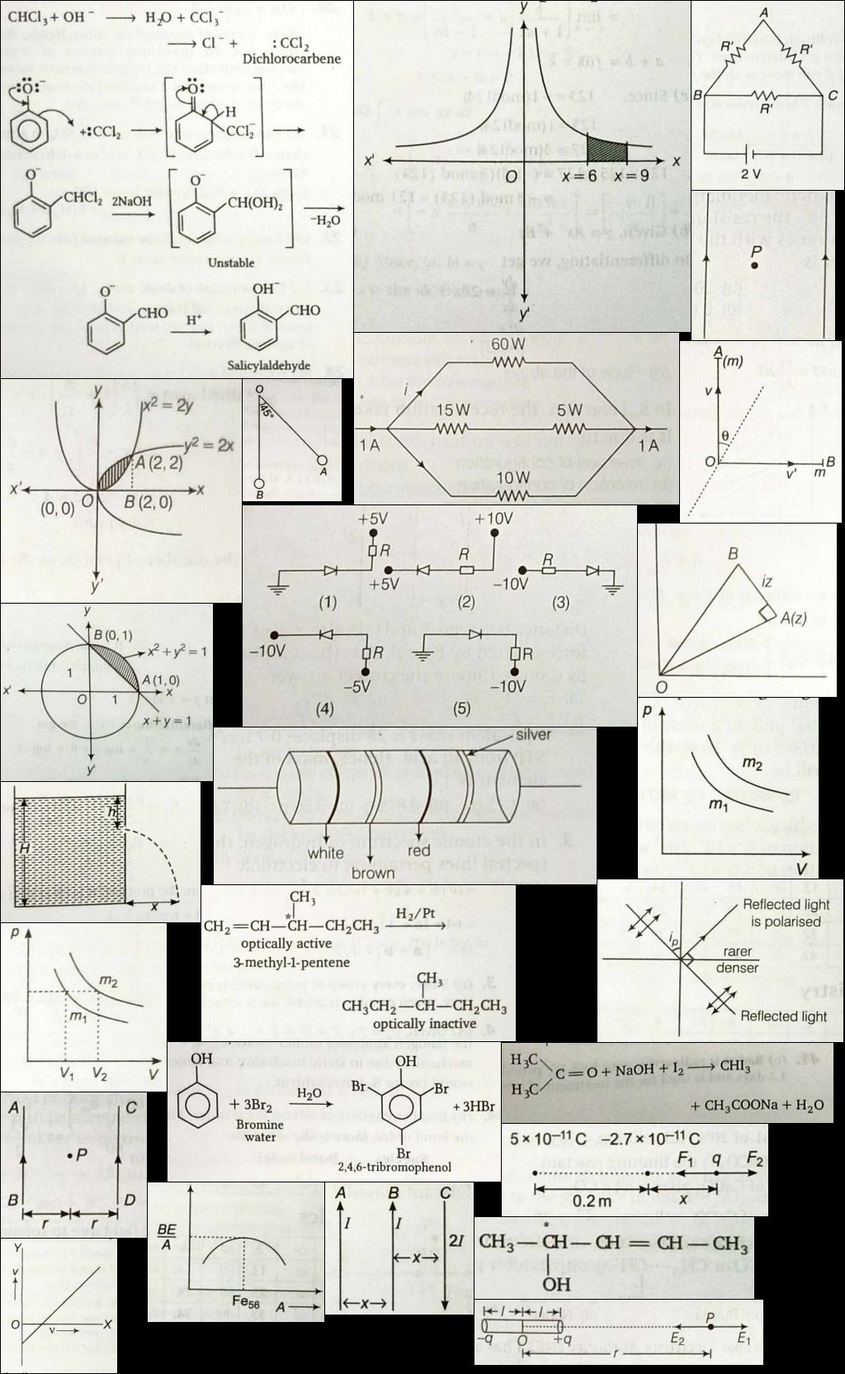
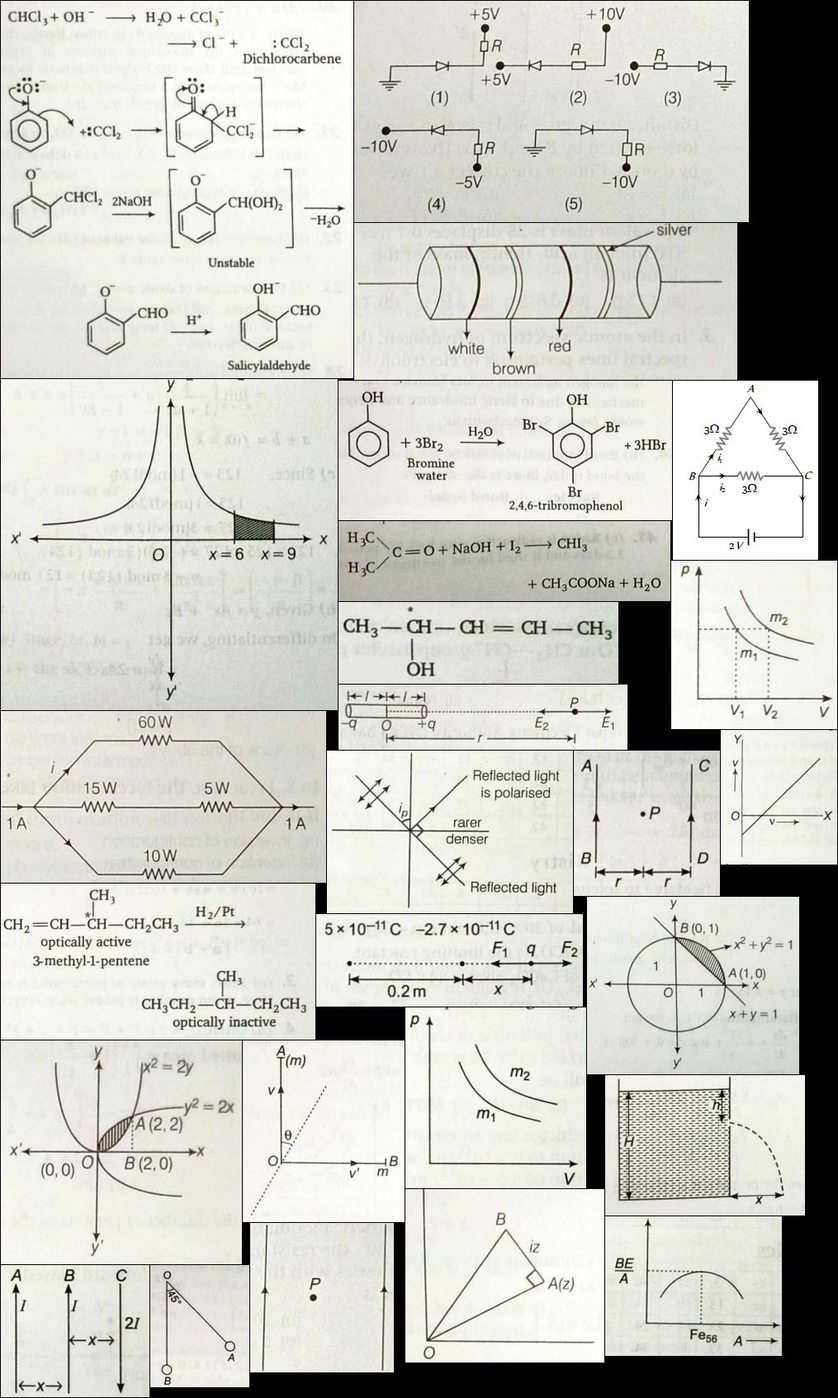
fixed.

diff --git a/img/engg/manipal/prev/2020.css b/img/engg/manipal/prev/2020.css
@@ -1,0 +1,170 @@
+/*
+-------------------------------------------------------------------
+Created with TexturePacker https://www.codeandweb.com/texturepacker
+-------------------------------------------------------------------
+Inline:     <i class="yourspritesname"></i>
+Responsive: <div class="yourspritesname"></div>
+*/
+
+
+.Ch_Manipal_2020_11_solu {max-width:388px; max-height:203px; }
+.Ch_Manipal_2020_11_solu::after {content: '\00a0';display: inline-block; width:388px; height:203px; background-position: 0.06060606060606061% 50.174216027874564%;background-size: 525.2577319587629% 524.1379310344828%;background-image: url(2020.jpg);padding: 0; }
+div.Ch_Manipal_2020_11_solu::after {max-width:388px; width:100%;height:0;padding: 0 0 52.31958762886598% 0;}
+.Ch_Manipal_2020_12_solu {max-width:168px; max-height:148px; }
+.Ch_Manipal_2020_12_solu::after {content: '\00a0';display: inline-block; width:168px; height:148px; background-position: 84.75935828877006% 71.06986899563319%;background-size: 1213.095238095238% 718.918918918919%;background-image: url(2020.jpg);padding: 0; }
+div.Ch_Manipal_2020_12_solu::after {max-width:168px; width:100%;height:0;padding: 0 0 88.0952380952381% 0;}
+.Ch_Manipal_2020_13_solu {max-width:391px; max-height:173px; }
+.Ch_Manipal_2020_13_solu::after {content: '\00a0';display: inline-block; width:391px; height:173px; background-position: 76.56344869459623% 0.1122334455667789%;background-size: 521.227621483376% 615.028901734104%;background-image: url(2020.jpg);padding: 0; }
+div.Ch_Manipal_2020_13_solu::after {max-width:391px; width:100%;height:0;padding: 0 0 44.24552429667519% 0;}
+.Ch_Manipal_2020_16_solu {max-width:377px; max-height:171px; }
+.Ch_Manipal_2020_16_solu::after {content: '\00a0';display: inline-block; width:377px; height:171px; background-position: 99.51836243226971% 0.11198208286674133%;background-size: 540.5835543766578% 622.2222222222222%;background-image: url(2020.jpg);padding: 0; }
+div.Ch_Manipal_2020_16_solu::after {max-width:377px; width:100%;height:0;padding: 0 0 45.358090185676396% 0;}
+.Ch_Manipal_2020_1_solu {max-width:364px; max-height:430px; }
+.Ch_Manipal_2020_1_solu::after {content: '\00a0';display: inline-block; width:364px; height:430px; background-position: 0.05973715651135006% 0.15772870662460567%;background-size: 559.8901098901099% 247.4418604651163%;background-image: url(2020.jpg);padding: 0; }
+div.Ch_Manipal_2020_1_solu::after {max-width:364px; width:100%;height:0;padding: 0 0 118.13186813186813% 0;}
+.Ch_Manipal_2020_30 {max-width:137px; max-height:106px; }
+.Ch_Manipal_2020_30::after {content: '\00a0';display: inline-block; width:137px; height:106px; background-position: 93.52972119936875% 80.37578288100208%;background-size: 1487.5912408759125% 1003.7735849056604%;background-image: url(2020.jpg);padding: 0; }
+div.Ch_Manipal_2020_30::after {max-width:137px; width:100%;height:0;padding: 0 0 77.37226277372262% 0;}
+.Ch_Manipal_2020_30_solu {max-width:170px; max-height:108px; }
+.Ch_Manipal_2020_30_solu::after {content: '\00a0';display: inline-block; width:170px; height:108px; background-position: 83.35117773019272% 91.52719665271967%;background-size: 1198.8235294117646% 985.1851851851852%;background-image: url(2020.jpg);padding: 0; }
+div.Ch_Manipal_2020_30_solu::after {max-width:170px; width:100%;height:0;padding: 0 0 63.529411764705884% 0;}
+.Ch_Manipal_2020_37_solu {max-width:291px; max-height:96px; }
+.Ch_Manipal_2020_37_solu::after {content: '\00a0';display: inline-block; width:291px; height:96px; background-position: 40.469376073268464% 78.20247933884298%;background-size: 700.3436426116839% 1108.3333333333333%;background-image: url(2020.jpg);padding: 0; }
+div.Ch_Manipal_2020_37_solu::after {max-width:291px; width:100%;height:0;padding: 0 0 32.98969072164948% 0;}
+.Ch_Manipal_2020_41_solu {max-width:366px; max-height:123px; }
+.Ch_Manipal_2020_41_solu::after {content: '\00a0';display: inline-block; width:366px; height:123px; background-position: 45.8732057416268% 32.19978746014878%;background-size: 556.8306010928961% 865.040650406504%;background-image: url(2020.jpg);padding: 0; }
+div.Ch_Manipal_2020_41_solu::after {max-width:366px; width:100%;height:0;padding: 0 0 33.60655737704918% 0;}
+.Ch_Manipal_2020_47_1 {max-width:140px; max-height:118px; }
+.Ch_Manipal_2020_47_1::after {content: '\00a0';display: inline-block; width:140px; height:118px; background-position: 92.41306638566913% 68.81606765327696%;background-size: 1455.7142857142858% 901.6949152542373%;background-image: url(2020.jpg);padding: 0; }
+div.Ch_Manipal_2020_47_1::after {max-width:140px; width:100%;height:0;padding: 0 0 84.28571428571429% 0;}
+.Ch_Manipal_2020_47_2 {max-width:128px; max-height:120px; }
+.Ch_Manipal_2020_47_2::after {content: '\00a0';display: inline-block; width:128px; height:120px; background-position: 63.19371727748691% 78.70762711864407%;background-size: 1592.1875% 886.6666666666666%;background-image: url(2020.jpg);padding: 0; }
+div.Ch_Manipal_2020_47_2::after {max-width:128px; width:100%;height:0;padding: 0 0 93.75% 0;}
+.Ch_Manipal_2020_47_3 {max-width:123px; max-height:145px; }
+.Ch_Manipal_2020_47_3::after {content: '\00a0';display: inline-block; width:123px; height:145px; background-position: 62.87206266318538% 94.0152339499456%;background-size: 1656.9105691056911% 733.7931034482758%;background-image: url(2020.jpg);padding: 0; }
+div.Ch_Manipal_2020_47_3::after {max-width:123px; width:100%;height:0;padding: 0 0 117.88617886178862% 0;}
+.Ch_Manipal_2020_47_4 {max-width:115px; max-height:112px; }
+.Ch_Manipal_2020_47_4::after {content: '\00a0';display: inline-block; width:115px; height:112px; background-position: 98.12792511700468% 92.1218487394958%;background-size: 1772.1739130434783% 950%;background-image: url(2020.jpg);padding: 0; }
+div.Ch_Manipal_2020_47_4::after {max-width:115px; width:100%;height:0;padding: 0 0 97.3913043478261% 0;}
+.Ch_Manipal_2020_47_solu {max-width:446px; max-height:175px; }
+.Ch_Manipal_2020_47_solu::after {content: '\00a0';display: inline-block; width:446px; height:175px; background-position: 51.130653266331656% 0.1124859392575928%;background-size: 456.9506726457399% 608%;background-image: url(2020.jpg);padding: 0; }
+div.Ch_Manipal_2020_47_solu::after {max-width:446px; width:100%;height:0;padding: 0 0 39.237668161434975% 0;}
+.Ch_Manipal_2020_48_1 {max-width:154px; max-height:76px; }
+.Ch_Manipal_2020_48_1::after {content: '\00a0';display: inline-block; width:154px; height:76px; background-position: 82.64331210191082% 99.59514170040485%;background-size: 1323.3766233766235% 1400%;background-image: url(2020.jpg);padding: 0; }
+div.Ch_Manipal_2020_48_1::after {max-width:154px; width:100%;height:0;padding: 0 0 49.35064935064935% 0;}
+.Ch_Manipal_2020_48_2 {max-width:153px; max-height:74px; }
+.Ch_Manipal_2020_48_2::after {content: '\00a0';display: inline-block; width:153px; height:74px; background-position: 91.6710875331565% 98.48484848484848%;background-size: 1332.0261437908496% 1437.837837837838%;background-image: url(2020.jpg);padding: 0; }
+div.Ch_Manipal_2020_48_2::after {max-width:153px; width:100%;height:0;padding: 0 0 48.36601307189542% 0;}
+.Ch_Manipal_2020_48_3 {max-width:121px; max-height:95px; }
+.Ch_Manipal_2020_48_3::after {content: '\00a0';display: inline-block; width:121px; height:95px; background-position: 99.94783515910277% 77.81217750257998%;background-size: 1684.297520661157% 1120%;background-image: url(2020.jpg);padding: 0; }
+div.Ch_Manipal_2020_48_3::after {max-width:121px; width:100%;height:0;padding: 0 0 78.51239669421487% 0;}
+.Ch_Manipal_2020_48_4 {max-width:158px; max-height:97px; }
+.Ch_Manipal_2020_48_4::after {content: '\00a0';display: inline-block; width:158px; height:97px; background-position: 91.91489361702128% 90.6928645294726%;background-size: 1289.873417721519% 1096.9072164948454%;background-image: url(2020.jpg);padding: 0; }
+div.Ch_Manipal_2020_48_4::after {max-width:158px; width:100%;height:0;padding: 0 0 61.392405063291136% 0;}
+.Ch_Manipal_2020_48_solu {max-width:339px; max-height:159px; }
+.Ch_Manipal_2020_48_solu::after {content: '\00a0';display: inline-block; width:339px; height:159px; background-position: 43.790464979399644% 47.18232044198895%;background-size: 601.1799410029498% 669.1823899371069%;background-image: url(2020.jpg);padding: 0; }
+div.Ch_Manipal_2020_48_solu::after {max-width:339px; width:100%;height:0;padding: 0 0 46.902654867256636% 0;}
+.Ch_Manipal_2020_49_solu {max-width:227px; max-height:163px; }
+.Ch_Manipal_2020_49_solu::after {content: '\00a0';display: inline-block; width:227px; height:163px; background-position: 75.20706791827719% 50.49944506104328%;background-size: 897.7973568281939% 652.760736196319%;background-image: url(2020.jpg);padding: 0; }
+div.Ch_Manipal_2020_49_solu::after {max-width:227px; width:100%;height:0;padding: 0 0 71.80616740088105% 0;}
+.Ch_Manipal_2020_50_solu {max-width:400px; max-height:126px; }
+.Ch_Manipal_2020_50_solu::after {content: '\00a0';display: inline-block; width:400px; height:126px; background-position: 22.344322344322343% 28.891257995735607%;background-size: 509.5% 844.4444444444445%;background-image: url(2020.jpg);padding: 0; }
+div.Ch_Manipal_2020_50_solu::after {max-width:400px; width:100%;height:0;padding: 0 0 31.5% 0;}
+.Ch_Manipal_2020_6_1_solu {max-width:369px; max-height:125px; }
+.Ch_Manipal_2020_6_1_solu::after {content: '\00a0';display: inline-block; width:369px; height:125px; background-position: 48.7717195925704% 18.849840255591054%;background-size: 552.3035230352303% 851.2%;background-image: url(2020.jpg);padding: 0; }
+div.Ch_Manipal_2020_6_1_solu::after {max-width:369px; width:100%;height:0;padding: 0 0 33.87533875338753% 0;}
+.Ch_Manipal_2020_6_2_solu {max-width:447px; max-height:269px; }
+.Ch_Manipal_2020_6_2_solu::after {content: '\00a0';display: inline-block; width:447px; height:269px; background-position: 23.004399748585794% 0.12578616352201258%;background-size: 455.92841163310965% 395.53903345724905%;background-image: url(2020.jpg);padding: 0; }
+div.Ch_Manipal_2020_6_2_solu::after {max-width:447px; width:100%;height:0;padding: 0 0 60.17897091722595% 0;}
+.Ch_Manipal_2020_8_solu {max-width:123px; max-height:92px; }
+.Ch_Manipal_2020_8_solu::after {content: '\00a0';display: inline-block; width:123px; height:92px; background-position: 94.62140992167102% 56.37860082304527%;background-size: 1656.9105691056911% 1156.5217391304348%;background-image: url(2020.jpg);padding: 0; }
+div.Ch_Manipal_2020_8_solu::after {max-width:123px; width:100%;height:0;padding: 0 0 74.79674796747967% 0;}
+.GP_2020_27_solu {max-width:281px; max-height:83px; }
+.GP_2020_27_solu::after {content: '\00a0';display: inline-block; width:281px; height:83px; background-position: 71.770062606716% 17.83893985728848%;background-size: 725.2669039145908% 1281.9277108433735%;background-image: url(2020.jpg);padding: 0; }
+div.GP_2020_27_solu::after {max-width:281px; width:100%;height:0;padding: 0 0 29.537366548042705% 0;}
+.GP_2020_28_solu {max-width:317px; max-height:97px; }
+.GP_2020_28_solu::after {content: '\00a0';display: inline-block; width:317px; height:97px; background-position: 43.230679837303896% 60.70320579110651%;background-size: 642.9022082018928% 1096.9072164948454%;background-image: url(2020.jpg);padding: 0; }
+div.GP_2020_28_solu::after {max-width:317px; width:100%;height:0;padding: 0 0 30.599369085173503% 0;}
+.GP_2020_29 {max-width:201px; max-height:74px; }
+.GP_2020_29::after {content: '\00a0';display: inline-block; width:201px; height:74px; background-position: 85.79205225911812% 80.8080808080808%;background-size: 1013.9303482587064% 1437.837837837838%;background-image: url(2020.jpg);padding: 0; }
+div.GP_2020_29::after {max-width:201px; width:100%;height:0;padding: 0 0 36.81592039800995% 0;}
+.GP_2020_30 {max-width:214px; max-height:99px; }
+.GP_2020_30::after {content: '\00a0';display: inline-block; width:214px; height:99px; background-position: 87.17105263157895% 57.09844559585492%;background-size: 952.3364485981308% 1074.7474747474748%;background-image: url(2020.jpg);padding: 0; }
+div.GP_2020_30::after {max-width:214px; width:100%;height:0;padding: 0 0 46.26168224299065% 0;}
+.Manipal_2020_35_solu {max-width:312px; max-height:71px; }
+.Manipal_2020_35_solu::after {content: '\00a0';display: inline-block; width:312px; height:71px; background-position: 42.294322132097335% 68.9828801611279%;background-size: 653.2051282051282% 1498.5915492957747%;background-image: url(2020.jpg);padding: 0; }
+div.Manipal_2020_35_solu::after {max-width:312px; width:100%;height:0;padding: 0 0 22.756410256410255% 0;}
+.Manipal_2020_39_solu {max-width:239px; max-height:86px; }
+.Manipal_2020_39_solu::after {content: '\00a0';display: inline-block; width:239px; height:86px; background-position: 74.26347971095053% 79.65235173824131%;background-size: 852.7196652719665% 1237.2093023255813%;background-image: url(2020.jpg);padding: 0; }
+div.Manipal_2020_39_solu::after {max-width:239px; width:100%;height:0;padding: 0 0 35.98326359832636% 0;}
+.Manipal_2020_40_solu {max-width:221px; max-height:125px; }
+.Manipal_2020_40_solu::after {content: '\00a0';display: inline-block; width:221px; height:125px; background-position: 87.50687947165657% 45.260915867944625%;background-size: 922.1719457013575% 851.2%;background-image: url(2020.jpg);padding: 0; }
+div.Manipal_2020_40_solu::after {max-width:221px; width:100%;height:0;padding: 0 0 56.56108597285068% 0;}
+.Manipal_2020_48 {max-width:226px; max-height:121px; }
+.Manipal_2020_48::after {content: '\00a0';display: inline-block; width:226px; height:121px; background-position: 92.439293598234% 27.253446447507955%;background-size: 901.7699115044247% 879.3388429752066%;background-image: url(2020.jpg);padding: 0; }
+div.Manipal_2020_48::after {max-width:226px; width:100%;height:0;padding: 0 0 53.53982300884956% 0;}
+.Manipal_2020_48_solu {max-width:273px; max-height:134px; }
+.Manipal_2020_48_solu::after {content: '\00a0';display: inline-block; width:273px; height:134px; background-position: 60.169971671388105% 65.3763440860215%;background-size: 746.5201465201466% 794.0298507462686%;background-image: url(2020.jpg);padding: 0; }
+div.Manipal_2020_48_solu::after {max-width:273px; width:100%;height:0;padding: 0 0 49.08424908424909% 0;}
+.Manipal_2020_50_solu {max-width:210px; max-height:156px; }
+.Manipal_2020_50_solu::after {content: '\00a0';display: inline-block; width:210px; height:156px; background-position: 80.0875273522976% 28.524229074889867%;background-size: 970.4761904761905% 682.0512820512821%;background-image: url(2020.jpg);padding: 0; }
+div.Manipal_2020_50_solu::after {max-width:210px; width:100%;height:0;padding: 0 0 74.28571428571429% 0;}
+.Manipal_2020_6 {max-width:228px; max-height:157px; }
+.Manipal_2020_6::after {content: '\00a0';display: inline-block; width:228px; height:157px; background-position: 73.37016574585635% 95.47960308710033%;background-size: 893.859649122807% 677.7070063694267%;background-image: url(2020.jpg);padding: 0; }
+div.Manipal_2020_6::after {max-width:228px; width:100%;height:0;padding: 0 0 68.85964912280701% 0;}
+.Manipal_2020_6_1 {max-width:128px; max-height:112px; }
+.Manipal_2020_6_1::after {content: '\00a0';display: inline-block; width:128px; height:112px; background-position: 99.21465968586388% 67.33193277310924%;background-size: 1592.1875% 950%;background-image: url(2020.jpg);padding: 0; }
+div.Manipal_2020_6_1::after {max-width:128px; width:100%;height:0;padding: 0 0 87.5% 0;}
+.Manipal_2020_6_2 {max-width:163px; max-height:110px; }
+.Manipal_2020_6_2::after {content: '\00a0';display: inline-block; width:163px; height:110px; background-position: 55.626666666666665% 77.88259958071279%;background-size: 1250.3067484662577% 967.2727272727273%;background-image: url(2020.jpg);padding: 0; }
+div.Manipal_2020_6_2::after {max-width:163px; width:100%;height:0;padding: 0 0 67.48466257668711% 0;}
+.Manipal_2020_6_21 {max-width:248px; max-height:159px; }
+.Manipal_2020_6_21::after {content: '\00a0';display: inline-block; width:248px; height:159px; background-position: 74.63687150837988% 68.39779005524862%;background-size: 821.7741935483871% 669.1823899371069%;background-image: url(2020.jpg);padding: 0; }
+div.Manipal_2020_6_21::after {max-width:248px; width:100%;height:0;padding: 0 0 64.11290322580645% 0;}
+.Manipal_2020_6_21_solu {max-width:272px; max-height:193px; }
+.Manipal_2020_6_21_solu::after {content: '\00a0';display: inline-block; width:272px; height:193px; background-position: 52.71800679501699% 98.04822043628013%;background-size: 749.2647058823529% 551.2953367875648%;background-image: url(2020.jpg);padding: 0; }
+div.Manipal_2020_6_21_solu::after {max-width:272px; width:100%;height:0;padding: 0 0 70.95588235294117% 0;}
+.Manipal_2020_6_3 {max-width:127px; max-height:115px; }
+.Manipal_2020_6_3::after {content: '\00a0';display: inline-block; width:127px; height:115px; background-position: 99.52904238618524% 27.08113804004215%;background-size: 1604.724409448819% 925.2173913043479%;background-image: url(2020.jpg);padding: 0; }
+div.Manipal_2020_6_3::after {max-width:127px; width:100%;height:0;padding: 0 0 90.55118110236221% 0;}
+.Manipal_2020_6_33 {max-width:325px; max-height:104px; }
+.Manipal_2020_6_33::after {content: '\00a0';display: inline-block; width:325px; height:104px; background-position: 22.241681260945708% 75.83333333333333%;background-size: 627.0769230769231% 1023.0769230769231%;background-image: url(2020.jpg);padding: 0; }
+div.Manipal_2020_6_33::after {max-width:325px; width:100%;height:0;padding: 0 0 32% 0;}
+.Manipal_2020_6_33_1_solu {max-width:280px; max-height:83px; }
+.Manipal_2020_6_33_1_solu::after {content: '\00a0';display: inline-block; width:280px; height:83px; background-position: 94.02730375426621% 17.63506625891947%;background-size: 727.8571428571429% 1281.9277108433735%;background-image: url(2020.jpg);padding: 0; }
+div.Manipal_2020_6_33_1_solu::after {max-width:280px; width:100%;height:0;padding: 0 0 29.642857142857142% 0;}
+.Manipal_2020_6_33_2_solu {max-width:279px; max-height:195px; }
+.Manipal_2020_6_33_2_solu::after {content: '\00a0';display: inline-block; width:279px; height:195px; background-position: 67.31097214326321% 29.804372842347526%;background-size: 730.4659498207885% 545.6410256410256%;background-image: url(2020.jpg);padding: 0; }
+div.Manipal_2020_6_33_2_solu::after {max-width:279px; width:100%;height:0;padding: 0 0 69.89247311827957% 0;}
+.Manipal_2020_6_33_3_solu {max-width:288px; max-height:191px; }
+.Manipal_2020_6_33_3_solu::after {content: '\00a0';display: inline-block; width:288px; height:191px; background-position: 36.68571428571428% 97.82359679266895%;background-size: 707.6388888888889% 557.0680628272252%;background-image: url(2020.jpg);padding: 0; }
+div.Manipal_2020_6_33_3_solu::after {max-width:288px; width:100%;height:0;padding: 0 0 66.31944444444444% 0;}
+.Manipal_2020_6_4 {max-width:148px; max-height:122px; }
+.Manipal_2020_6_4::after {content: '\00a0';display: inline-block; width:148px; height:122px; background-position: 95.87301587301587% 45.11677282377919%;background-size: 1377.027027027027% 872.1311475409836%;background-image: url(2020.jpg);padding: 0; }
+div.Manipal_2020_6_4::after {max-width:148px; width:100%;height:0;padding: 0 0 82.43243243243244% 0;}
+.Math_2020_25_solu {max-width:307px; max-height:184px; }
+.Math_2020_25_solu::after {content: '\00a0';display: inline-block; width:307px; height:184px; background-position: 19.295205083766607% 94.6590909090909%;background-size: 663.8436482084691% 578.2608695652174%;background-image: url(2020.jpg);padding: 0; }
+div.Math_2020_25_solu::after {max-width:307px; width:100%;height:0;padding: 0 0 59.93485342019544% 0;}
+.Math_2020_3_solu {max-width:339px; max-height:133px; }
+.Math_2020_3_solu::after {content: '\00a0';display: inline-block; width:339px; height:133px; background-position: 22.954679223072397% 63.80236305048335%;background-size: 601.1799410029498% 800%;background-image: url(2020.jpg);padding: 0; }
+div.Math_2020_3_solu::after {max-width:339px; width:100%;height:0;padding: 0 0 39.233038348082594% 0;}
+.Math_2020_4_solu {max-width:353px; max-height:195px; }
+.Math_2020_4_solu::after {content: '\00a0';display: inline-block; width:353px; height:195px; background-position: 23.14540059347181% 45.79976985040276%;background-size: 577.3371104815864% 545.6410256410256%;background-image: url(2020.jpg);padding: 0; }
+div.Math_2020_4_solu::after {max-width:353px; width:100%;height:0;padding: 0 0 55.240793201133144% 0;}
+.Math_2020_55_solu {max-width:332px; max-height:223px; }
+.Math_2020_55_solu::after {content: '\00a0';display: inline-block; width:332px; height:223px; background-position: 0.05861664712778429% 98.33531510107015%;background-size: 613.855421686747% 477.13004484304935%;background-image: url(2020.jpg);padding: 0; }
+div.Math_2020_55_solu::after {max-width:332px; width:100%;height:0;padding: 0 0 67.16867469879519% 0;}
+.Math_2020_57_solu {max-width:379px; max-height:190px; }
+.Math_2020_57_solu::after {content: '\00a0';display: inline-block; width:379px; height:190px; background-position: 0.06027727546714889% 72.76887871853548%;background-size: 537.730870712401% 560%;background-image: url(2020.jpg);padding: 0; }
+div.Math_2020_57_solu::after {max-width:379px; width:100%;height:0;padding: 0 0 50.13192612137203% 0;}
+.Math_2020_60_solu {max-width:277px; max-height:152px; }
+.Math_2020_60_solu::after {content: '\00a0';display: inline-block; width:277px; height:152px; background-position: 61.555934128336176% 49.89035087719298%;background-size: 735.7400722021661% 700%;background-image: url(2020.jpg);padding: 0; }
+div.Math_2020_60_solu::after {max-width:277px; width:100%;height:0;padding: 0 0 54.87364620938628% 0;}
+.Math_2020_66_1_solu {max-width:258px; max-height:45px; }
+.Math_2020_66_1_solu::after {content: '\00a0';display: inline-block; width:258px; height:45px; background-position: 94.10112359550561% 37.19332679097154%;background-size: 789.922480620155% 2364.4444444444443%;background-image: url(2020.jpg);padding: 0; }
+div.Math_2020_66_1_solu::after {max-width:258px; width:100%;height:0;padding: 0 0 17.441860465116278% 0;}
+.Math_2020_66_2_solu {max-width:263px; max-height:45px; }
+.Math_2020_66_2_solu::after {content: '\00a0';display: inline-block; width:263px; height:45px; background-position: 18.816901408450704% 99.9018645731109%;background-size: 774.9049429657795% 2364.4444444444443%;background-image: url(2020.jpg);padding: 0; }
+div.Math_2020_66_2_solu::after {max-width:263px; width:100%;height:0;padding: 0 0 17.11026615969582% 0;}
+
+/* $TexturePacker:SmartUpdate:5a353f446b068bdf27719a21f37d508b:a7c0c70dfa68616ca856cf6940f81ce4:88b3c23202266ed6b4fc6bd5ac16f8f9$ */

diff --git a/img/engg/manipal/prev/2018.css b/img/engg/manipal/prev/2018.css
@@ -8,82 +8,82 @@ Responsive: <div class="yourspritesname"></div>
 
 
 .Manipal_2018_Che_16 {max-width:402px; max-height:97px; }
-.Manipal_2018_Che_16::after {content: '\00a0';display: inline-block; width:402px; height:97px; background-position: 97.7491961414791% 80.59987236758137%;background-size: 254.726368159204% 1715.4639175257732%;background-image: url(2018.jpg);padding: 0; }
+.Manipal_2018_Che_16::after {content: '\00a0';display: inline-block; width:402px; height:97px; background-position: 66.88417618270799% 39.53634085213032%;background-size: 252.48756218905473% 1745.360824742268%;background-image: url(2018.jpg);padding: 0; }
 div.Manipal_2018_Che_16::after {max-width:402px; width:100%;height:0;padding: 0 0 24.129353233830845% 0;}
 .Manipal_2018_Che_29 {max-width:427px; max-height:457px; }
-.Manipal_2018_Che_29::after {content: '\00a0';display: inline-block; width:427px; height:457px; background-position: 0.16750418760469013% 0.08285004142502071%;background-size: 239.81264637002343% 364.1137855579869%;background-image: url(2018.jpg);padding: 0; }
+.Manipal_2018_Che_29::after {content: '\00a0';display: inline-block; width:427px; height:457px; background-position: 0.17006802721088435% 0.08090614886731391%;background-size: 237.70491803278688% 370.4595185995624%;background-image: url(2018.jpg);padding: 0; }
 div.Manipal_2018_Che_29::after {max-width:427px; width:100%;height:0;padding: 0 0 107.02576112412179% 0;}
 .Manipal_2018_Che_39 {max-width:339px; max-height:99px; }
-.Manipal_2018_Che_39::after {content: '\00a0';display: inline-block; width:339px; height:99px; background-position: 83.94160583941606% 94.185303514377%;background-size: 302.06489675516224% 1680.8080808080808%;background-image: url(2018.jpg);padding: 0; }
+.Manipal_2018_Che_39::after {content: '\00a0';display: inline-block; width:339px; height:99px; background-position: 60.650887573964496% 45.73400250941029%;background-size: 299.4100294985251% 1710.1010101010102%;background-image: url(2018.jpg);padding: 0; }
 div.Manipal_2018_Che_39::after {max-width:339px; width:100%;height:0;padding: 0 0 29.20353982300885% 0;}
 .Manipal_2018_Che_49 {max-width:381px; max-height:189px; }
-.Manipal_2018_Che_49::after {content: '\00a0';display: inline-block; width:381px; height:189px; background-position: 37.947122861586315% 72.67796610169492%;background-size: 268.76640419947506% 880.4232804232804%;background-image: url(2018.jpg);padding: 0; }
+.Manipal_2018_Che_49::after {content: '\00a0';display: inline-block; width:381px; height:189px; background-position: 0.15772870662460567% 71.1436170212766%;background-size: 266.40419947506564% 895.7671957671957%;background-image: url(2018.jpg);padding: 0; }
 div.Manipal_2018_Che_49::after {max-width:381px; width:100%;height:0;padding: 0 0 49.60629921259842% 0;}
 .Manipal_2018_Che_8 {max-width:404px; max-height:169px; }
-.Manipal_2018_Che_8::after {content: '\00a0';display: inline-block; width:404px; height:169px; background-position: 32.74193548387097% 84.41471571906355%;background-size: 253.46534653465346% 984.6153846153846%;background-image: url(2018.jpg);padding: 0; }
+.Manipal_2018_Che_8::after {content: '\00a0';display: inline-block; width:404px; height:169px; background-position: 67.10310965630114% 30.249343832020998%;background-size: 251.23762376237624% 1001.7751479289941%;background-image: url(2018.jpg);padding: 0; }
 div.Manipal_2018_Che_8::after {max-width:404px; width:100%;height:0;padding: 0 0 41.83168316831683% 0;}
 .Manipal_2018_Maths_23 {max-width:408px; max-height:401px; }
-.Manipal_2018_Maths_23::after {content: '\00a0';display: inline-block; width:408px; height:401px; background-position: 69.64285714285714% 0.0791765637371338%;background-size: 250.98039215686273% 414.9625935162095%;background-image: url(2018.jpg);padding: 0; }
+.Manipal_2018_Maths_23::after {content: '\00a0';display: inline-block; width:408px; height:401px; background-position: 0.16474464579901152% 35.526315789473685%;background-size: 248.77450980392157% 422.19451371571074%;background-image: url(2018.jpg);padding: 0; }
 div.Manipal_2018_Maths_23::after {max-width:408px; width:100%;height:0;padding: 0 0 98.2843137254902% 0;}
 .Manipal_2018_Maths_25 {max-width:241px; max-height:210px; }
-.Manipal_2018_Maths_25::after {content: '\00a0';display: inline-block; width:241px; height:210px; background-position: 98.7228607918263% 43.60385144429161%;background-size: 424.896265560166% 792.3809523809524%;background-image: url(2018.jpg);padding: 0; }
+.Manipal_2018_Maths_25::after {content: '\00a0';display: inline-block; width:241px; height:210px; background-position: 63.43669250645995% 97.10047201618342%;background-size: 421.1618257261411% 806.1904761904761%;background-image: url(2018.jpg);padding: 0; }
 div.Manipal_2018_Maths_25::after {max-width:241px; width:100%;height:0;padding: 0 0 87.13692946058092% 0;}
 .Manipal_2018_Maths_46 {max-width:292px; max-height:271px; }
-.Manipal_2018_Maths_46::after {content: '\00a0';display: inline-block; width:292px; height:271px; background-position: 0.1366120218579235% 32.95046661880833%;background-size: 350.6849315068493% 614.0221402214022%;background-image: url(2018.jpg);padding: 0; }
+.Manipal_2018_Maths_46::after {content: '\00a0';display: inline-block; width:292px; height:271px; background-position: 0.13831258644536654% 88.60759493670886%;background-size: 347.6027397260274% 624.7232472324723%;background-image: url(2018.jpg);padding: 0; }
 div.Manipal_2018_Maths_46::after {max-width:292px; width:100%;height:0;padding: 0 0 92.8082191780822% 0;}
 .Manipal_2018_Maths_65 {max-width:257px; max-height:215px; }
-.Manipal_2018_Maths_65::after {content: '\00a0';display: inline-block; width:257px; height:215px; background-position: 0.1303780964797914% 50.448585231193924%;background-size: 398.44357976653697% 773.953488372093%;background-image: url(2018.jpg);padding: 0; }
+.Manipal_2018_Maths_65::after {content: '\00a0';display: inline-block; width:257px; height:215px; background-position: 93.7994722955145% 73.47767253044655%;background-size: 394.94163424124514% 787.4418604651163%;background-image: url(2018.jpg);padding: 0; }
 div.Manipal_2018_Maths_65::after {max-width:257px; width:100%;height:0;padding: 0 0 83.65758754863813% 0;}
 .Manipal_2018_Phy_1 {max-width:350px; max-height:79px; }
-.Manipal_2018_Phy_1::after {content: '\00a0';display: inline-block; width:350px; height:79px; background-position: 85.31157270029674% 99.30599369085174%;background-size: 292.57142857142856% 2106.3291139240505%;background-image: url(2018.jpg);padding: 0; }
+.Manipal_2018_Phy_1::after {content: '\00a0';display: inline-block; width:350px; height:79px; background-position: 61.65413533834587% 51.36307311028501%;background-size: 290% 2143.0379746835442%;background-image: url(2018.jpg);padding: 0; }
 div.Manipal_2018_Phy_1::after {max-width:350px; width:100%;height:0;padding: 0 0 22.571428571428573% 0;}
 .Manipal_2018_Phy_11 {max-width:242px; max-height:170px; }
-.Manipal_2018_Phy_11::after {content: '\00a0';display: inline-block; width:242px; height:170px; background-position: 0.1278772378516624% 63.38688085676038%;background-size: 423.1404958677686% 978.8235294117648%;background-image: url(2018.jpg);padding: 0; }
+.Manipal_2018_Phy_11::after {content: '\00a0';display: inline-block; width:242px; height:170px; background-position: 94.82535575679172% 85.48916611950098%;background-size: 419.42148760330576% 995.8823529411765%;background-image: url(2018.jpg);padding: 0; }
 div.Manipal_2018_Phy_11::after {max-width:242px; width:100%;height:0;padding: 0 0 70.24793388429752% 0;}
-.Manipal_2018_Phy_14 {max-width:185px; max-height:229px; }
-.Manipal_2018_Phy_14::after {content: '\00a0';display: inline-block; width:185px; height:229px; background-position: 99.880810488677% 0.06968641114982578%;background-size: 553.5135135135135% 726.6375545851529%;background-image: url(2018.jpg);padding: 0; }
-div.Manipal_2018_Phy_14::after {max-width:185px; width:100%;height:0;padding: 0 0 123.78378378378379% 0;}
+.Manipal_2018_Phy_14 {max-width:176px; max-height:217px; }
+.Manipal_2018_Phy_14::after {content: '\00a0';display: inline-block; width:176px; height:217px; background-position: 97.13945172824792% 31.233062330623305%;background-size: 576.7045454545455% 780.184331797235%;background-image: url(2018.jpg);padding: 0; }
+div.Manipal_2018_Phy_14::after {max-width:176px; width:100%;height:0;padding: 0 0 123.29545454545455% 0;}
 .Manipal_2018_Phy_18 {max-width:141px; max-height:163px; }
-.Manipal_2018_Phy_18::after {content: '\00a0';display: inline-block; width:141px; height:163px; background-position: 0.11325028312570781% 99.93337774816789%;background-size: 726.2411347517731% 1020.8588957055215%;background-image: url(2018.jpg);padding: 0; }
+.Manipal_2018_Phy_18::after {content: '\00a0';display: inline-block; width:141px; height:163px; background-position: 99.88558352402745% 57.77777777777778%;background-size: 719.8581560283687% 1038.6503067484662%;background-image: url(2018.jpg);padding: 0; }
 div.Manipal_2018_Phy_18::after {max-width:141px; width:100%;height:0;padding: 0 0 115.60283687943263% 0;}
 .Manipal_2018_Phy_20 {max-width:120px; max-height:148px; }
-.Manipal_2018_Phy_20::after {content: '\00a0';display: inline-block; width:120px; height:148px; background-position: 32.52212389380531% 30.277044854881268%;background-size: 853.3333333333334% 1124.3243243243244%;background-image: url(2018.jpg);padding: 0; }
+.Manipal_2018_Phy_20::after {content: '\00a0';display: inline-block; width:120px; height:148px; background-position: 20.335195530726256% 99.15857605177993%;background-size: 845.8333333333334% 1143.918918918919%;background-image: url(2018.jpg);padding: 0; }
 div.Manipal_2018_Phy_20::after {max-width:120px; width:100%;height:0;padding: 0 0 123.33333333333333% 0;}
 .Manipal_2018_Phy_27 {max-width:219px; max-height:219px; }
-.Manipal_2018_Phy_27::after {content: '\00a0';display: inline-block; width:219px; height:219px; background-position: 96.0248447204969% 58.477508650519034%;background-size: 467.57990867579906% 759.8173515981736%;background-image: url(2018.jpg);padding: 0; }
+.Manipal_2018_Phy_27::after {content: '\00a0';display: inline-block; width:219px; height:219px; background-position: 61.68341708542714% 82.76797829036634%;background-size: 463.4703196347032% 773.0593607305937%;background-image: url(2018.jpg);padding: 0; }
 div.Manipal_2018_Phy_27::after {max-width:219px; width:100%;height:0;padding: 0 0 100% 0;}
 .Manipal_2018_Phy_27_q {max-width:201px; max-height:204px; }
-.Manipal_2018_Phy_27_q::after {content: '\00a0';display: inline-block; width:201px; height:204px; background-position: 0.12150668286755771% 76.57534246575342%;background-size: 509.452736318408% 815.6862745098039%;background-image: url(2018.jpg);padding: 0; }
+.Manipal_2018_Phy_27_q::after {content: '\00a0';display: inline-block; width:201px; height:204px; background-position: 99.87714987714988% 45.60107454667562%;background-size: 504.97512437810946% 829.9019607843137%;background-image: url(2018.jpg);padding: 0; }
 div.Manipal_2018_Phy_27_q::after {max-width:201px; width:100%;height:0;padding: 0 0 101.49253731343283% 0;}
 .Manipal_2018_Phy_28 {max-width:180px; max-height:160px; }
-.Manipal_2018_Phy_28::after {content: '\00a0';display: inline-block; width:180px; height:160px; background-position: 46.682464454976305% 95.2127659574468%;background-size: 568.8888888888889% 1040%;background-image: url(2018.jpg);padding: 0; }
+.Manipal_2018_Phy_28::after {content: '\00a0';display: inline-block; width:180px; height:160px; background-position: 0.11976047904191617% 99.93476842791911%;background-size: 563.8888888888889% 1058.125%;background-image: url(2018.jpg);padding: 0; }
 div.Manipal_2018_Phy_28::after {max-width:180px; width:100%;height:0;padding: 0 0 88.88888888888889% 0;}
 .Manipal_2018_Phy_34 {max-width:478px; max-height:268px; }
-.Manipal_2018_Phy_34::after {content: '\00a0';display: inline-block; width:478px; height:268px; background-position: 53.84615384615385% 43.83954154727794%;background-size: 214.22594142259413% 620.8955223880597%;background-image: url(2018.jpg);padding: 0; }
+.Manipal_2018_Phy_34::after {content: '\00a0';display: inline-block; width:478px; height:268px; background-position: 79.88826815642459% 0.07017543859649122%;background-size: 212.34309623430963% 631.7164179104477%;background-image: url(2018.jpg);padding: 0; }
 div.Manipal_2018_Phy_34::after {max-width:478px; width:100%;height:0;padding: 0 0 56.06694560669456% 0;}
 .Manipal_2018_Phy_37 {max-width:174px; max-height:181px; }
-.Manipal_2018_Phy_37::after {content: '\00a0';display: inline-block; width:174px; height:181px; background-position: 98.58823529411765% 15.57653405259609%;background-size: 588.5057471264367% 919.3370165745856%;background-image: url(2018.jpg);padding: 0; }
+.Manipal_2018_Phy_37::after {content: '\00a0';display: inline-block; width:174px; height:181px; background-position: 36.02853745541022% 97.94973544973546%;background-size: 583.3333333333334% 935.3591160220994%;background-image: url(2018.jpg);padding: 0; }
 div.Manipal_2018_Phy_37::after {max-width:174px; width:100%;height:0;padding: 0 0 104.02298850574712% 0;}
 .Manipal_2018_Phy_37_s {max-width:177px; max-height:176px; }
-.Manipal_2018_Phy_37_s::after {content: '\00a0';display: inline-block; width:177px; height:176px; background-position: 0.1180637544273908% 88.91129032258064%;background-size: 578.5310734463277% 945.4545454545455%;background-image: url(2018.jpg);padding: 0; }
+.Manipal_2018_Phy_37_s::after {content: '\00a0';display: inline-block; width:177px; height:176px; background-position: 82.93556085918854% 59.92089650626236%;background-size: 573.4463276836158% 961.9318181818181%;background-image: url(2018.jpg);padding: 0; }
 div.Manipal_2018_Phy_37_s::after {max-width:177px; width:100%;height:0;padding: 0 0 99.43502824858757% 0;}
 .Manipal_2018_Phy_41 {max-width:323px; max-height:112px; }
-.Manipal_2018_Phy_41::after {content: '\00a0';display: inline-block; width:323px; height:112px; background-position: 86.73323823109843% 87.69329896907216%;background-size: 317.0278637770898% 1485.7142857142858%;background-image: url(2018.jpg);padding: 0; }
+.Manipal_2018_Phy_41::after {content: '\00a0';display: inline-block; width:323px; height:112px; background-position: 55.346820809248555% 70.01897533206831%;background-size: 314.24148606811144% 1511.607142857143%;background-image: url(2018.jpg);padding: 0; }
 div.Manipal_2018_Phy_41::after {max-width:323px; width:100%;height:0;padding: 0 0 34.6749226006192% 0;}
 .Manipal_2018_Phy_47 {max-width:464px; max-height:190px; }
-.Manipal_2018_Phy_47::after {content: '\00a0';display: inline-block; width:464px; height:190px; background-position: 46.25% 59.76933514246947%;background-size: 220.68965517241378% 875.7894736842105%;background-image: url(2018.jpg);padding: 0; }
+.Manipal_2018_Phy_47::after {content: '\00a0';display: inline-block; width:464px; height:190px; background-position: 77.8584392014519% 17.964071856287426%;background-size: 218.75% 891.0526315789474%;background-image: url(2018.jpg);padding: 0; }
 div.Manipal_2018_Phy_47::after {max-width:464px; width:100%;height:0;padding: 0 0 40.94827586206897% 0;}
 .Manipal_2018_Phy_50 {max-width:394px; max-height:208px; }
-.Manipal_2018_Phy_50::after {content: '\00a0';display: inline-block; width:394px; height:208px; background-position: 68.0952380952381% 27.678571428571427%;background-size: 259.8984771573604% 800%;background-image: url(2018.jpg);padding: 0; }
+.Manipal_2018_Phy_50::after {content: '\00a0';display: inline-block; width:394px; height:208px; background-position: 0.1610305958132045% 57.97979797979798%;background-size: 257.61421319796955% 813.9423076923077%;background-image: url(2018.jpg);padding: 0; }
 div.Manipal_2018_Phy_50::after {max-width:394px; width:100%;height:0;padding: 0 0 52.79187817258883% 0;}
 .Manipal_2018_Phy_6 {max-width:298px; max-height:197px; }
-.Manipal_2018_Phy_6::after {content: '\00a0';display: inline-block; width:298px; height:197px; background-position: 99.72451790633609% 72.59713701431492%;background-size: 343.6241610738255% 844.6700507614213%;background-image: url(2018.jpg);padding: 0; }
+.Manipal_2018_Phy_6::after {content: '\00a0';display: inline-block; width:298px; height:197px; background-position: 55.23012552301255% 60.7620320855615%;background-size: 340.6040268456376% 859.3908629441624%;background-image: url(2018.jpg);padding: 0; }
 div.Manipal_2018_Phy_6::after {max-width:298px; width:100%;height:0;padding: 0 0 66.10738255033557% 0;}
 .Manipal_2018_Phy_7 {max-width:214px; max-height:169px; }
-.Manipal_2018_Phy_7::after {content: '\00a0';display: inline-block; width:214px; height:169px; background-position: 22.098765432098766% 95.78595317725753%;background-size: 478.50467289719626% 984.6153846153846%;background-image: url(2018.jpg);padding: 0; }
+.Manipal_2018_Phy_7::after {content: '\00a0';display: inline-block; width:214px; height:169px; background-position: 91.51061173533084% 96.65354330708661%;background-size: 474.29906542056074% 1001.7751479289941%;background-image: url(2018.jpg);padding: 0; }
 div.Manipal_2018_Phy_7::after {max-width:214px; width:100%;height:0;padding: 0 0 78.97196261682242% 0;}
 .Manipal_2018_Phy_9 {max-width:196px; max-height:220px; }
-.Manipal_2018_Phy_9::after {content: '\00a0';display: inline-block; width:196px; height:220px; background-position: 99.51690821256038% 28.601108033240997%;background-size: 522.4489795918367% 756.3636363636364%;background-image: url(2018.jpg);padding: 0; }
+.Manipal_2018_Phy_9::after {content: '\00a0';display: inline-block; width:196px; height:220px; background-position: 35.8974358974359% 85.5397148676171%;background-size: 517.8571428571429% 769.5454545454545%;background-image: url(2018.jpg);padding: 0; }
 div.Manipal_2018_Phy_9::after {max-width:196px; width:100%;height:0;padding: 0 0 112.24489795918367% 0;}
 
-/* $TexturePacker:SmartUpdate:543f8ef6a4dcf7112c011e1d253f3340:14357e1103ad8906c76e3f2341c4e7fe:10c1c73734fa9c6abed1caf4c198d649$ */
+/* $TexturePacker:SmartUpdate:76820a3b3b087e478cec873e2770bbd7:3f4157cd591669b40213585c830a36a9:10c1c73734fa9c6abed1caf4c198d649$ */
